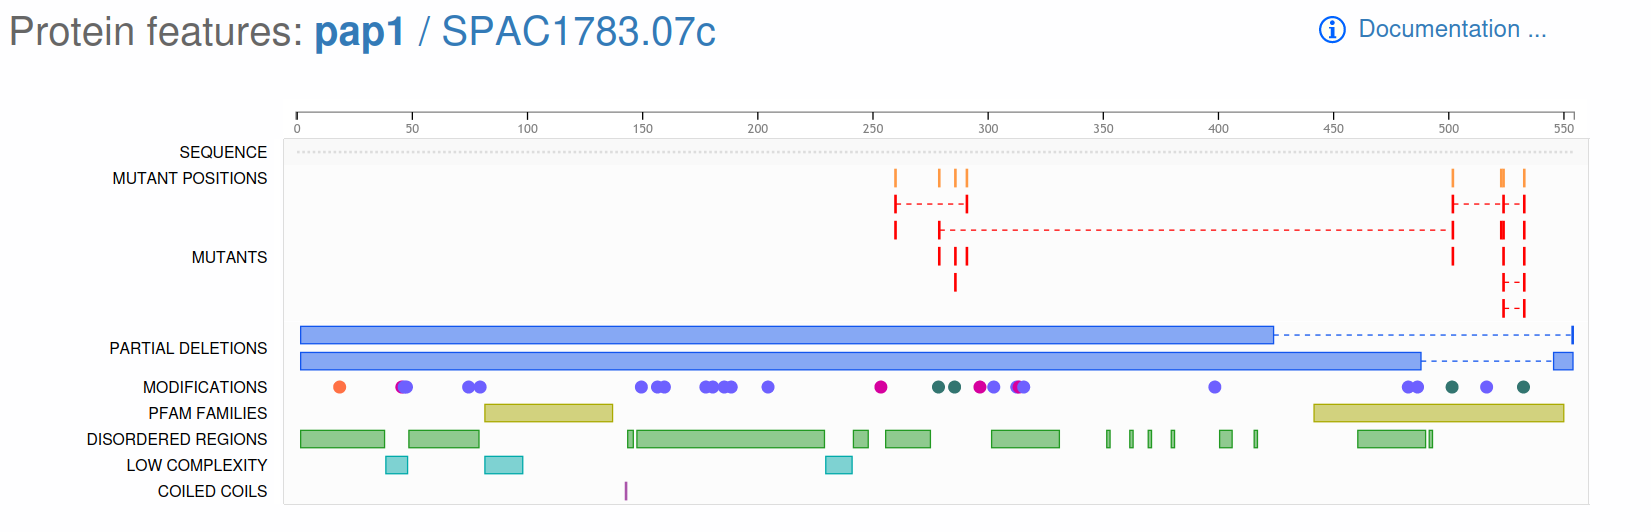
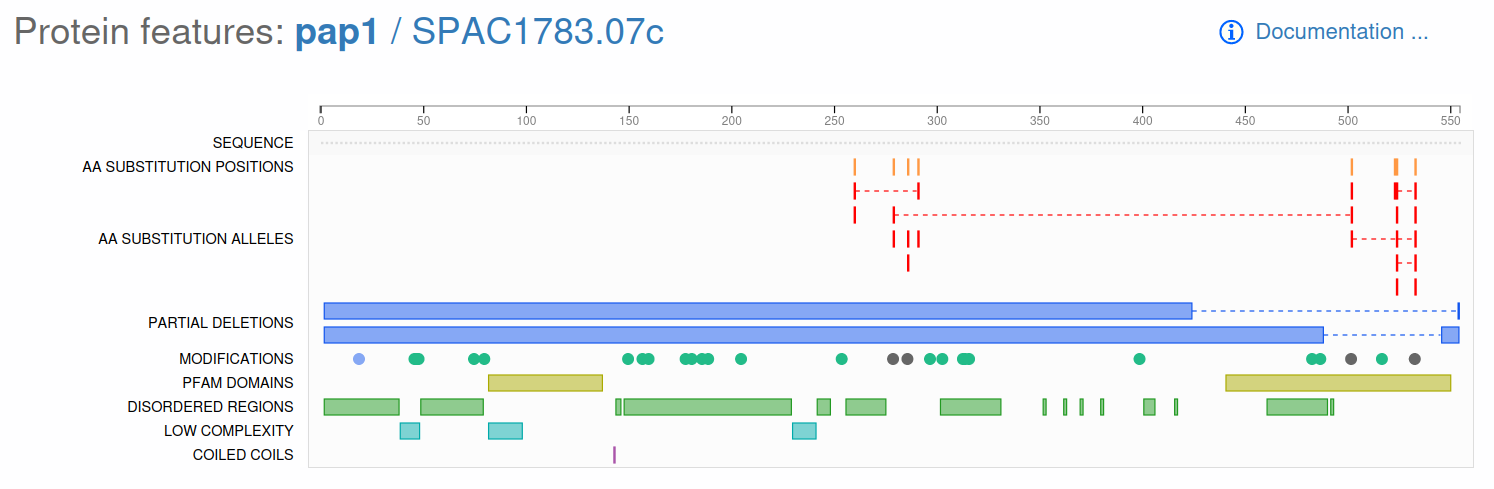
Add hht1 protein feature view example to docs
Refs pombase/website#2079

diff --git a/src/docs/documentation/gene-page-protein-features-widget.md b/src/docs/documentation/gene-page-protein-features-widget.md
@@ -5,7 +5,7 @@ gene.  Hover over an allele, partial deletion, modification or Pfam
 domain to see more details.  Hover over the track name for a brief
 description of the track.
 
-![pap1 gene page protein features widget](assets/gene-pap1-protein-feature-viewer-widget-no-colour.png){ .screenshot width=96%}
+![pap1 gene page protein features widget](assets/gene-pap1-protein-feature-viewer-widget-colour.png){ .screenshot width=96%}
 
 ### Available tracks
 
@@ -46,7 +46,8 @@ the dedicated protein features page that includes the details of the
 individual amino acid substitution allele changes and "Partial
 deletions" tracks:
 
-![pap1 protein features page](assets/gene-pap1-protein-feature-viewer-page-no-colour.png){ .screenshot width=96%}
+![pap1 protein features page](assets/gene-pap1-protein-feature-viewer-page-colour.png){ .screenshot width=96%}
+![hht1 protein features page](assets/gene-hht1-protein-feature-viewer-page.png){ .screenshot width=96%}
 
 Thanks to the team at [RCSB PDB](https://www.rcsb.org/) for providing
 the [Open Source software](https://github.com/rcsb/rcsb-saguaro) used
